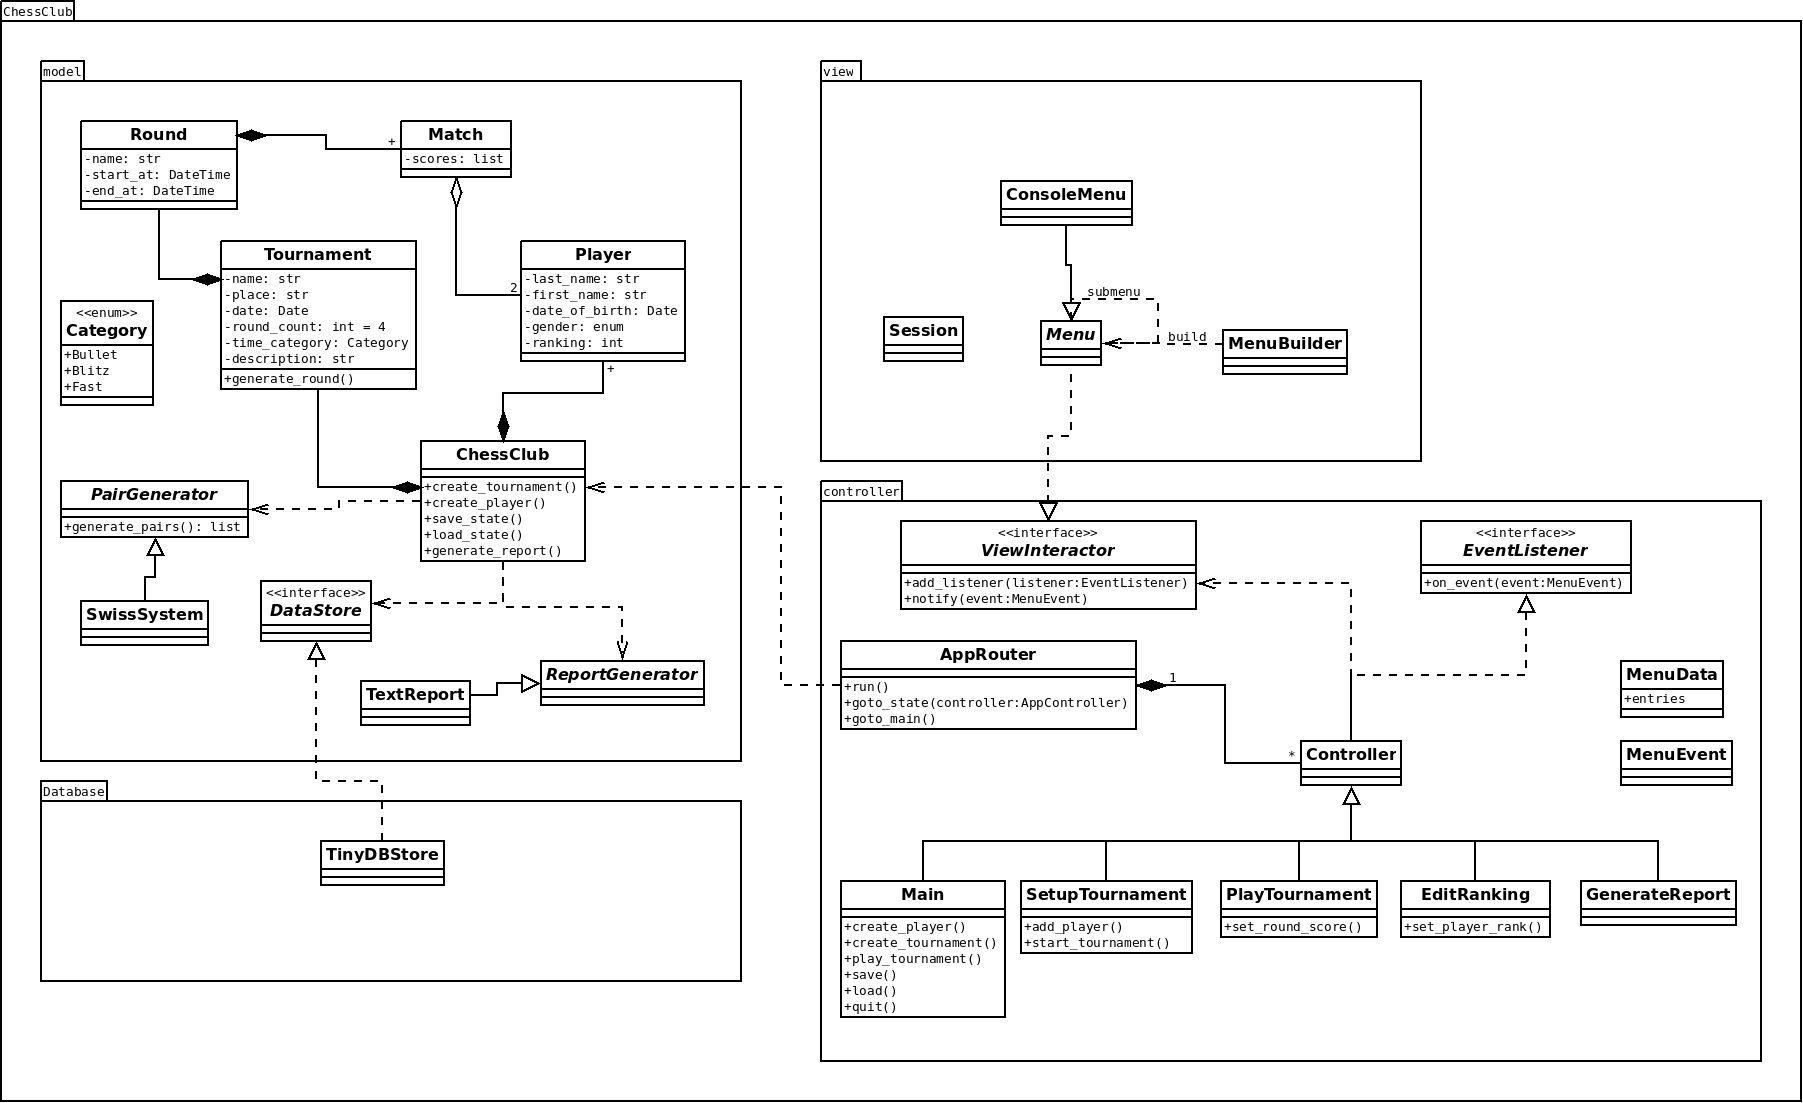
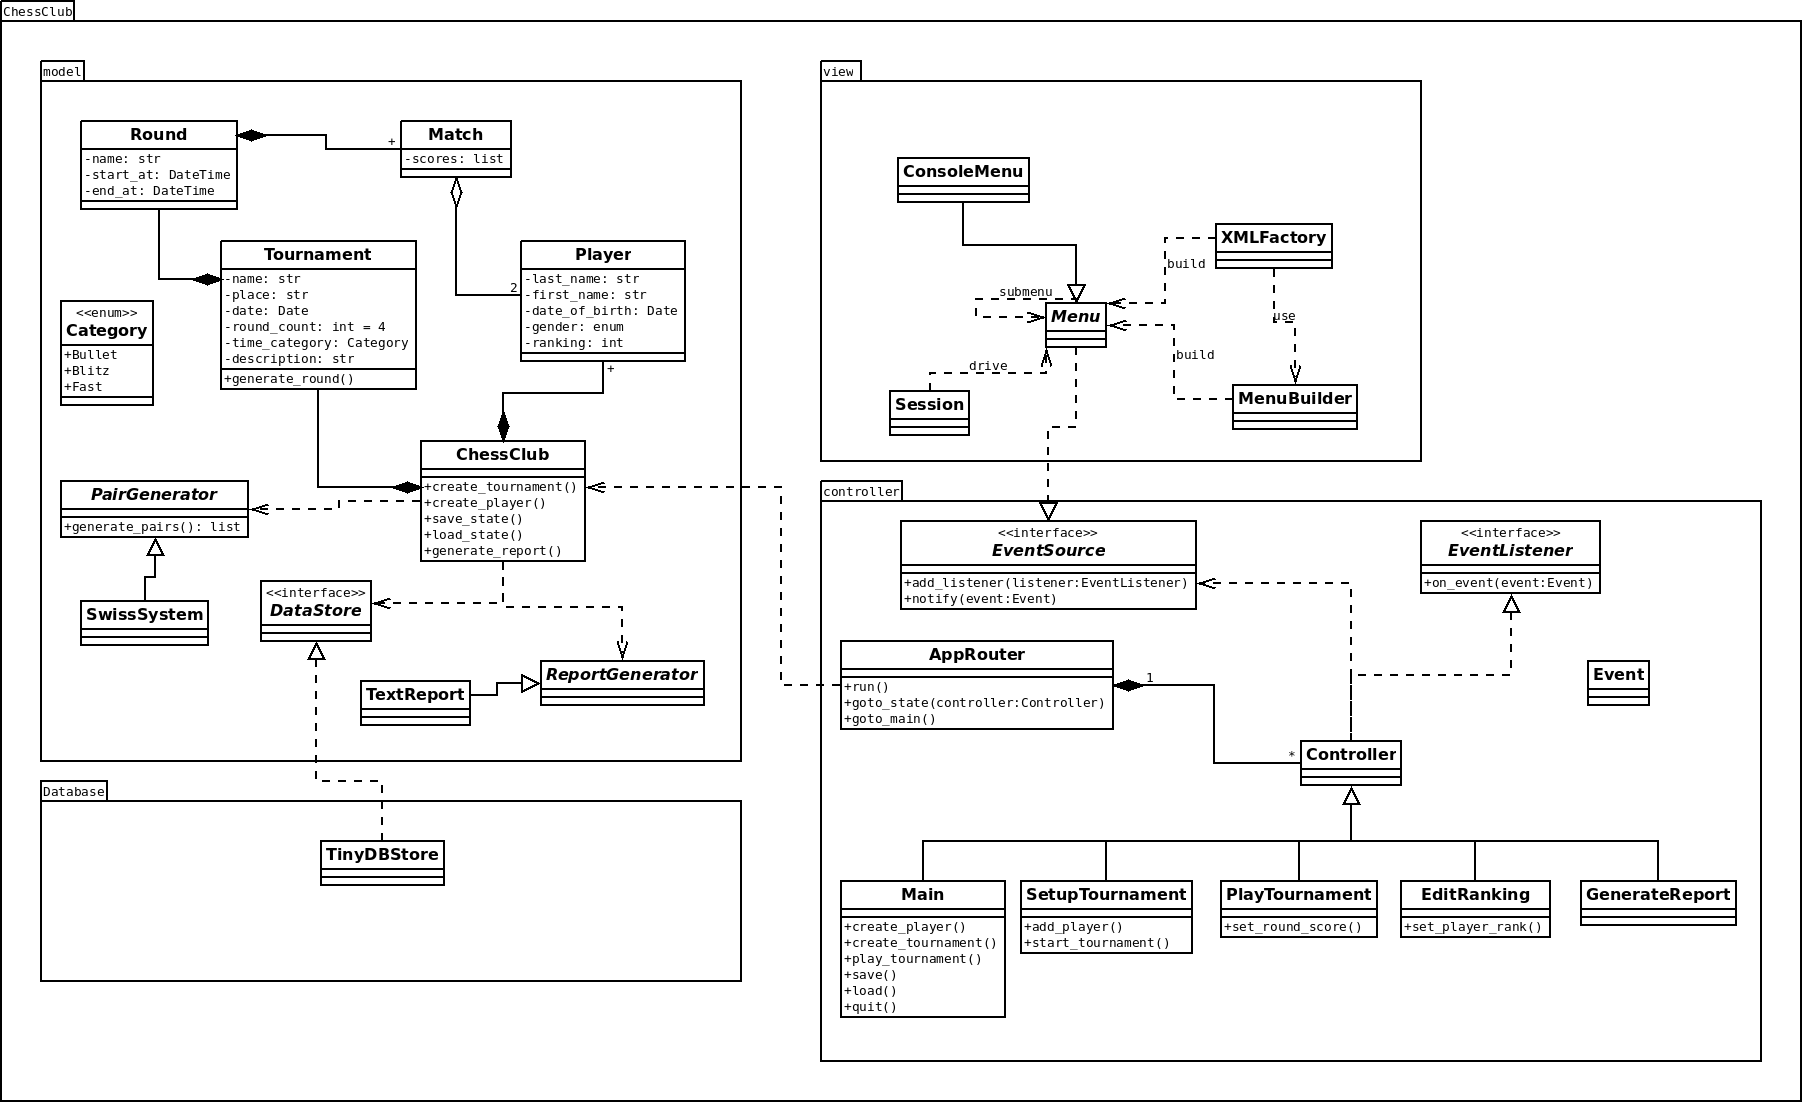
Add: can now quit app.

diff --git a/view/menu.py b/view/menu.py
@@ -1,3 +1,7 @@
+from abc import ABC, abstractmethod
+from controller.events import Event, EventSource
+
+
 class Menu:
     """Composite structure representing an abstract menu."""
     def __init__(self, title):
@@ -19,10 +23,15 @@ class Menu:
             raise MenuError(f'no menu with action "{action}"')
         return self._nexts[action]
 
-
-class MenuSession:
+    @abstractmethod
+    def show(self):
+        """Expose the menu to the user."""
+        pass
+    
+class MenuSession(EventSource):
     """Represent a stateful menu navigation."""
     def __init__(self, menu):
+        super().__init__()
         self._menu = menu
 
     def menu(self):
@@ -32,6 +41,9 @@ class MenuSession:
         next_menu = self._menu.get_menu_by_action(action)
         if not isinstance(next_menu, str) and next_menu.is_submenu():
             self._menu = next_menu
+            self.notify(Event('goto', menu=next_menu))
+        else:
+            self.notify(Event('activate', action=action, entry=next_menu))
 
 
 class MenuError(Exception):

diff --git a/controller/events.py b/controller/events.py
@@ -1,0 +1,39 @@
+from abc import ABC, abstractmethod
+
+
+class Event:
+    def __init__(self, name, **kwargs):
+        self._name = name
+        self._values = kwargs
+
+    def name(self):
+        return self._name
+    
+    def get(self, value_name):
+        return self._values[value_name]
+
+
+class EventSource:
+    def __init__(self):
+        self._listeners = []
+
+    def add_listener(self, listener):
+        self._listeners.append(listener)
+
+    def remove_listener(self, listener):
+        self._listeners.remove(listener)
+
+    def notify(self, event):
+        """Notify an event to all the listeners."""
+        for listener in self._listeners:
+            listener.on_event(event)
+
+
+class EventListener(ABC):
+    def __init__(self):
+        pass
+
+    @abstractmethod
+    def on_event(self):
+        """Called when the event source notify an event."""
+        pass

diff --git a/controller/approuter.py b/controller/approuter.py
@@ -1,0 +1,24 @@
+from view.menu import MenuSession
+
+
+class AppRouter:
+    def __init__(self, model, view):
+        self._model = model
+        self._view = view
+        self._session = MenuSession(self._view)
+        self._controller = None
+
+    def set_controller(self, ctrl):
+        if self._controller is not None:
+            self._session.remove_listener(self._controller)
+        self._controller = ctrl
+        self._controller.prepare(self, self._model, self._view)
+        self._session.add_listener(ctrl)
+
+    def run(self):
+        while True:
+            self._session.menu().show()
+            self._session.nav(input('> '))
+
+    def goto(self, controller):
+        self._controller = controller

diff --git a/controller/controllers.py b/controller/controllers.py
@@ -1,0 +1,24 @@
+from .events import EventListener
+
+
+class Controller(EventListener):
+    def __init__(self):
+        super().__init__()
+        self._router = None
+        self._model = None
+        self._view = None
+        
+    def prepare(self, router, model, view):
+        """Prepare the controller to be used by the router."""
+        self._router = router
+        self._model = model
+        self._view = view
+
+
+class MainController(Controller):
+    def __init__(self):
+        super().__init__()
+
+    def on_event(self, event):
+        if event.name() == 'activate' and event.get('action') == 'q':
+            self._model.quit()

diff --git a/main.py b/main.py
@@ -1,12 +1,12 @@
 from view.factory import XMLFactory
-from view.menu import MenuSession
+from model.chessclub import ChessClub
+from controller.approuter import AppRouter
+from controller.controllers import MainController
 
 if __name__ == '__main__':
     factory = XMLFactory()
-    menu = factory.load_from_file('data/menu.xml')
-    session = MenuSession(menu)
-
-    while True:
-        session.menu().show()
-        x = input('> ')
-        session.nav(x)
+    view = factory.load_from_file('data/menu.xml')
+    model = ChessClub()
+    router = AppRouter(model, view)
+    router.set_controller(MainController())
+    router.run()
